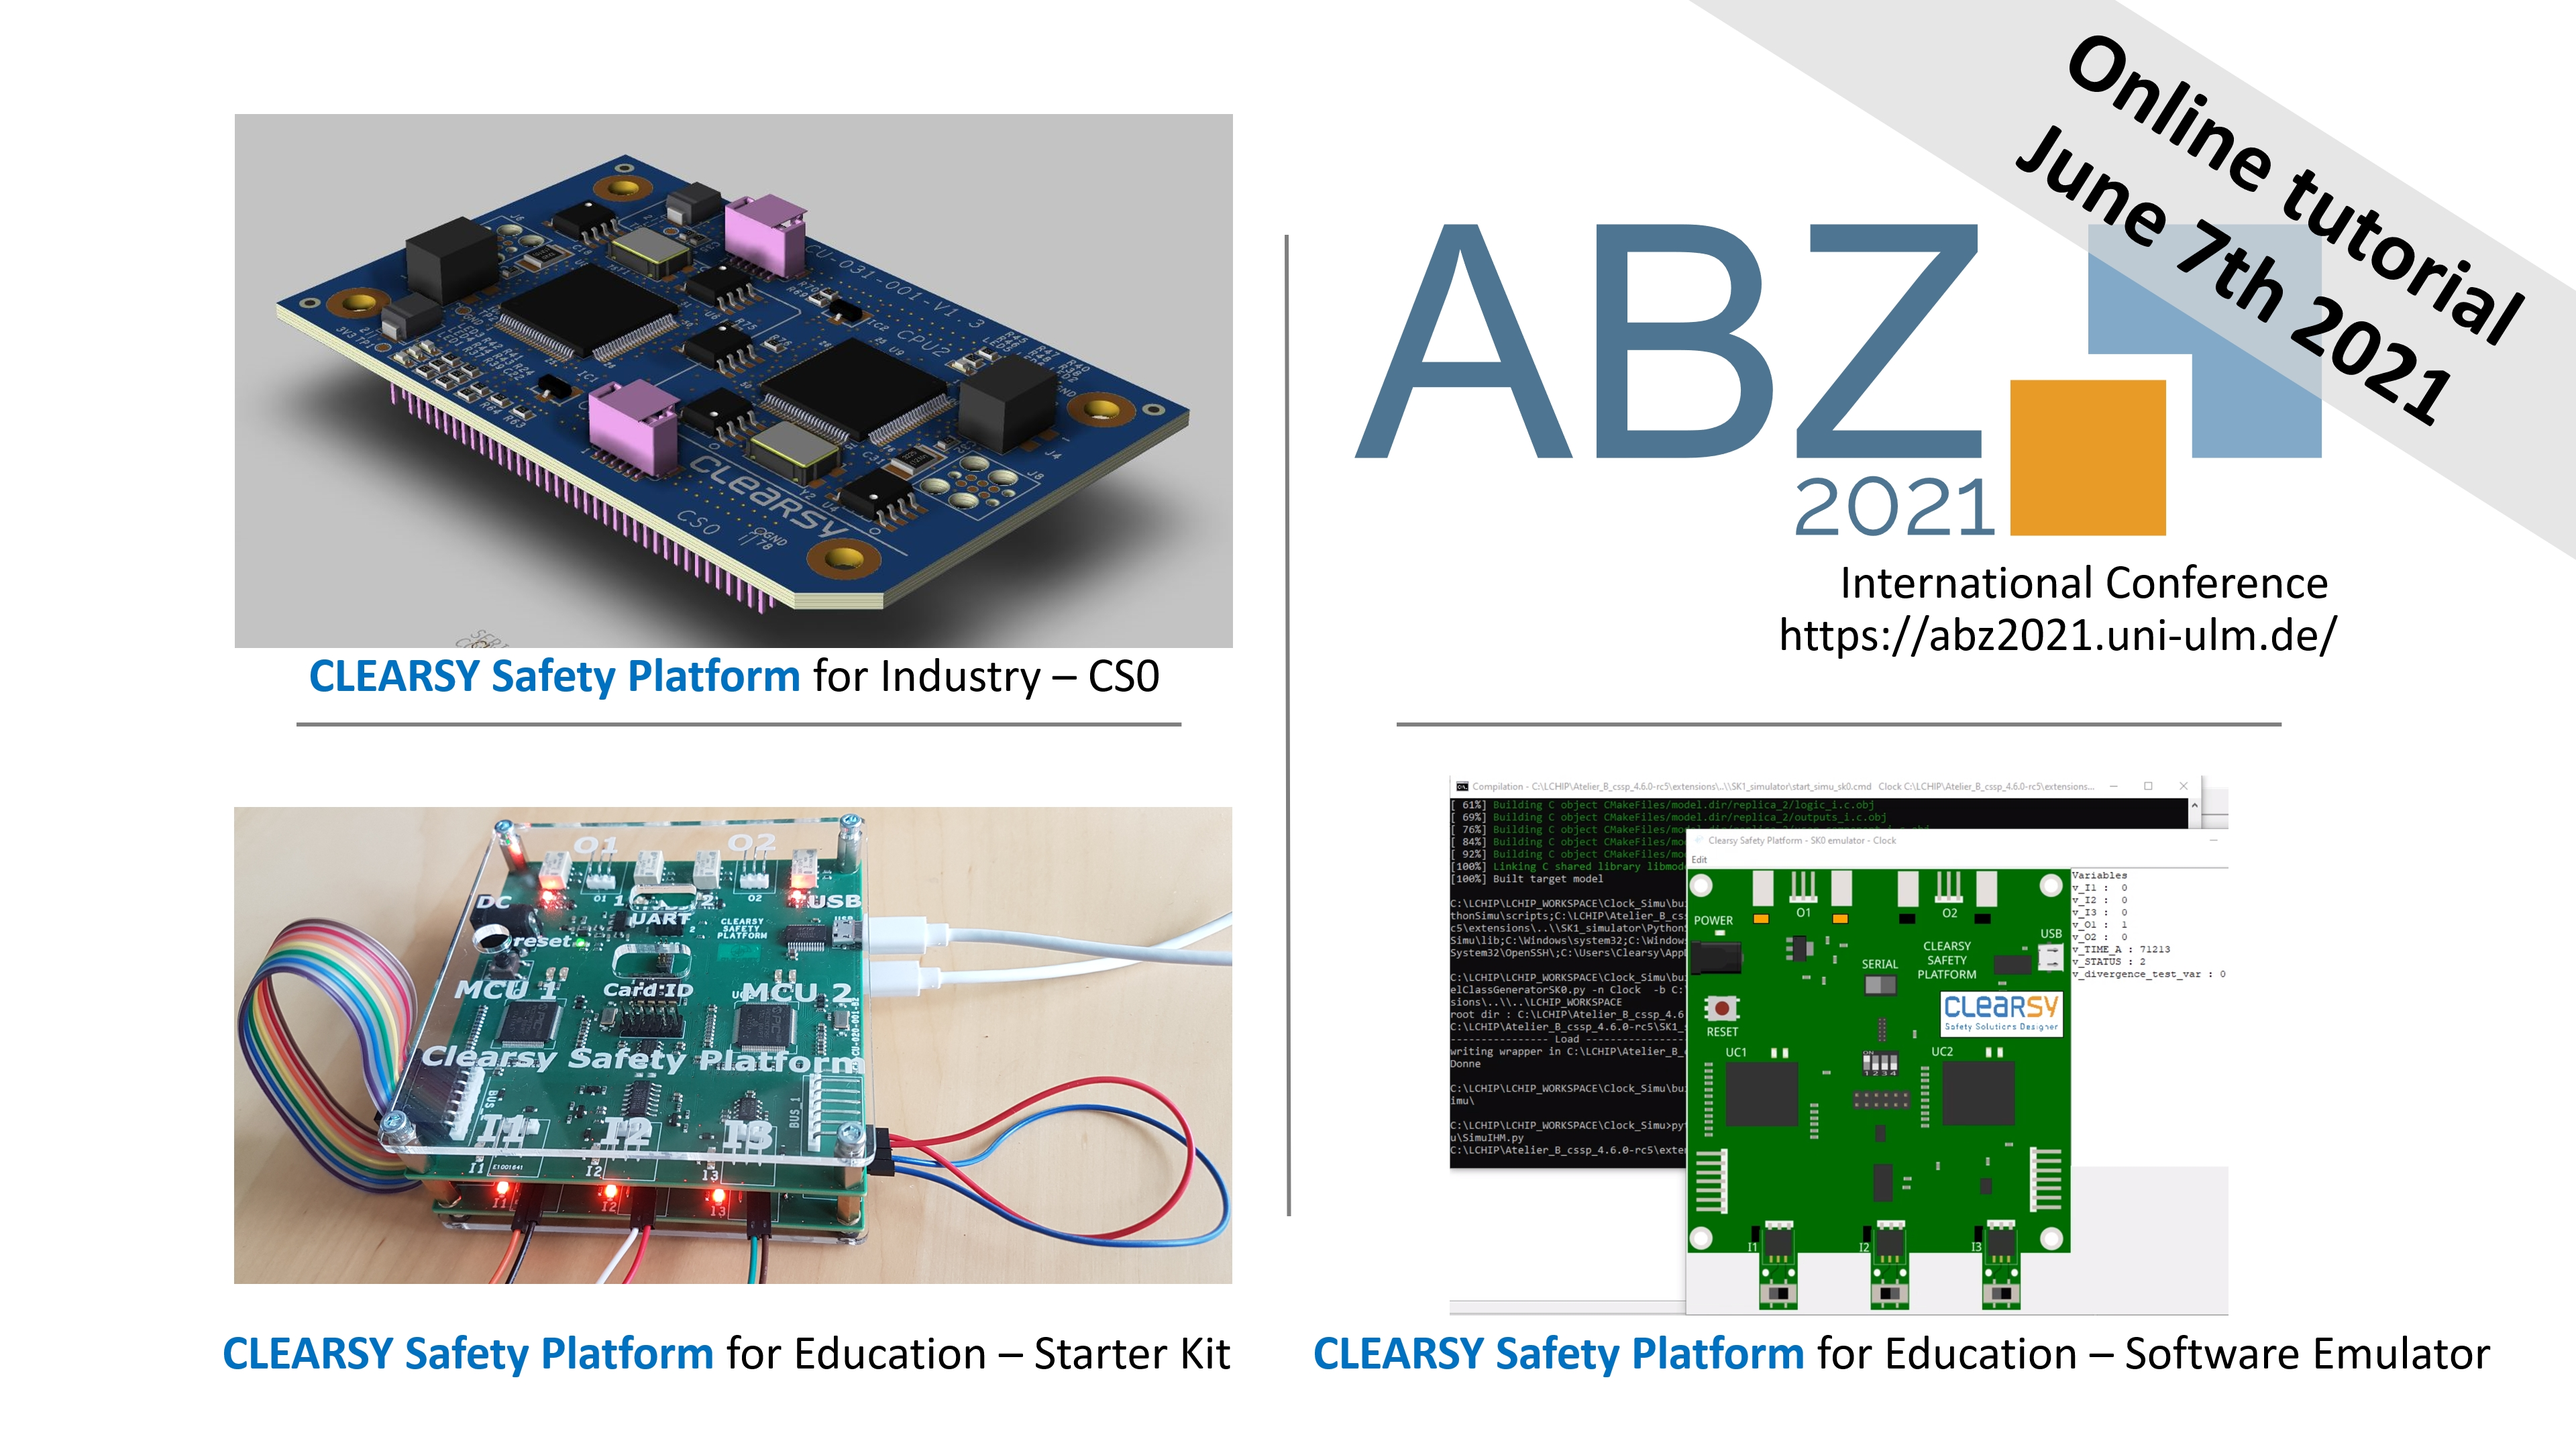
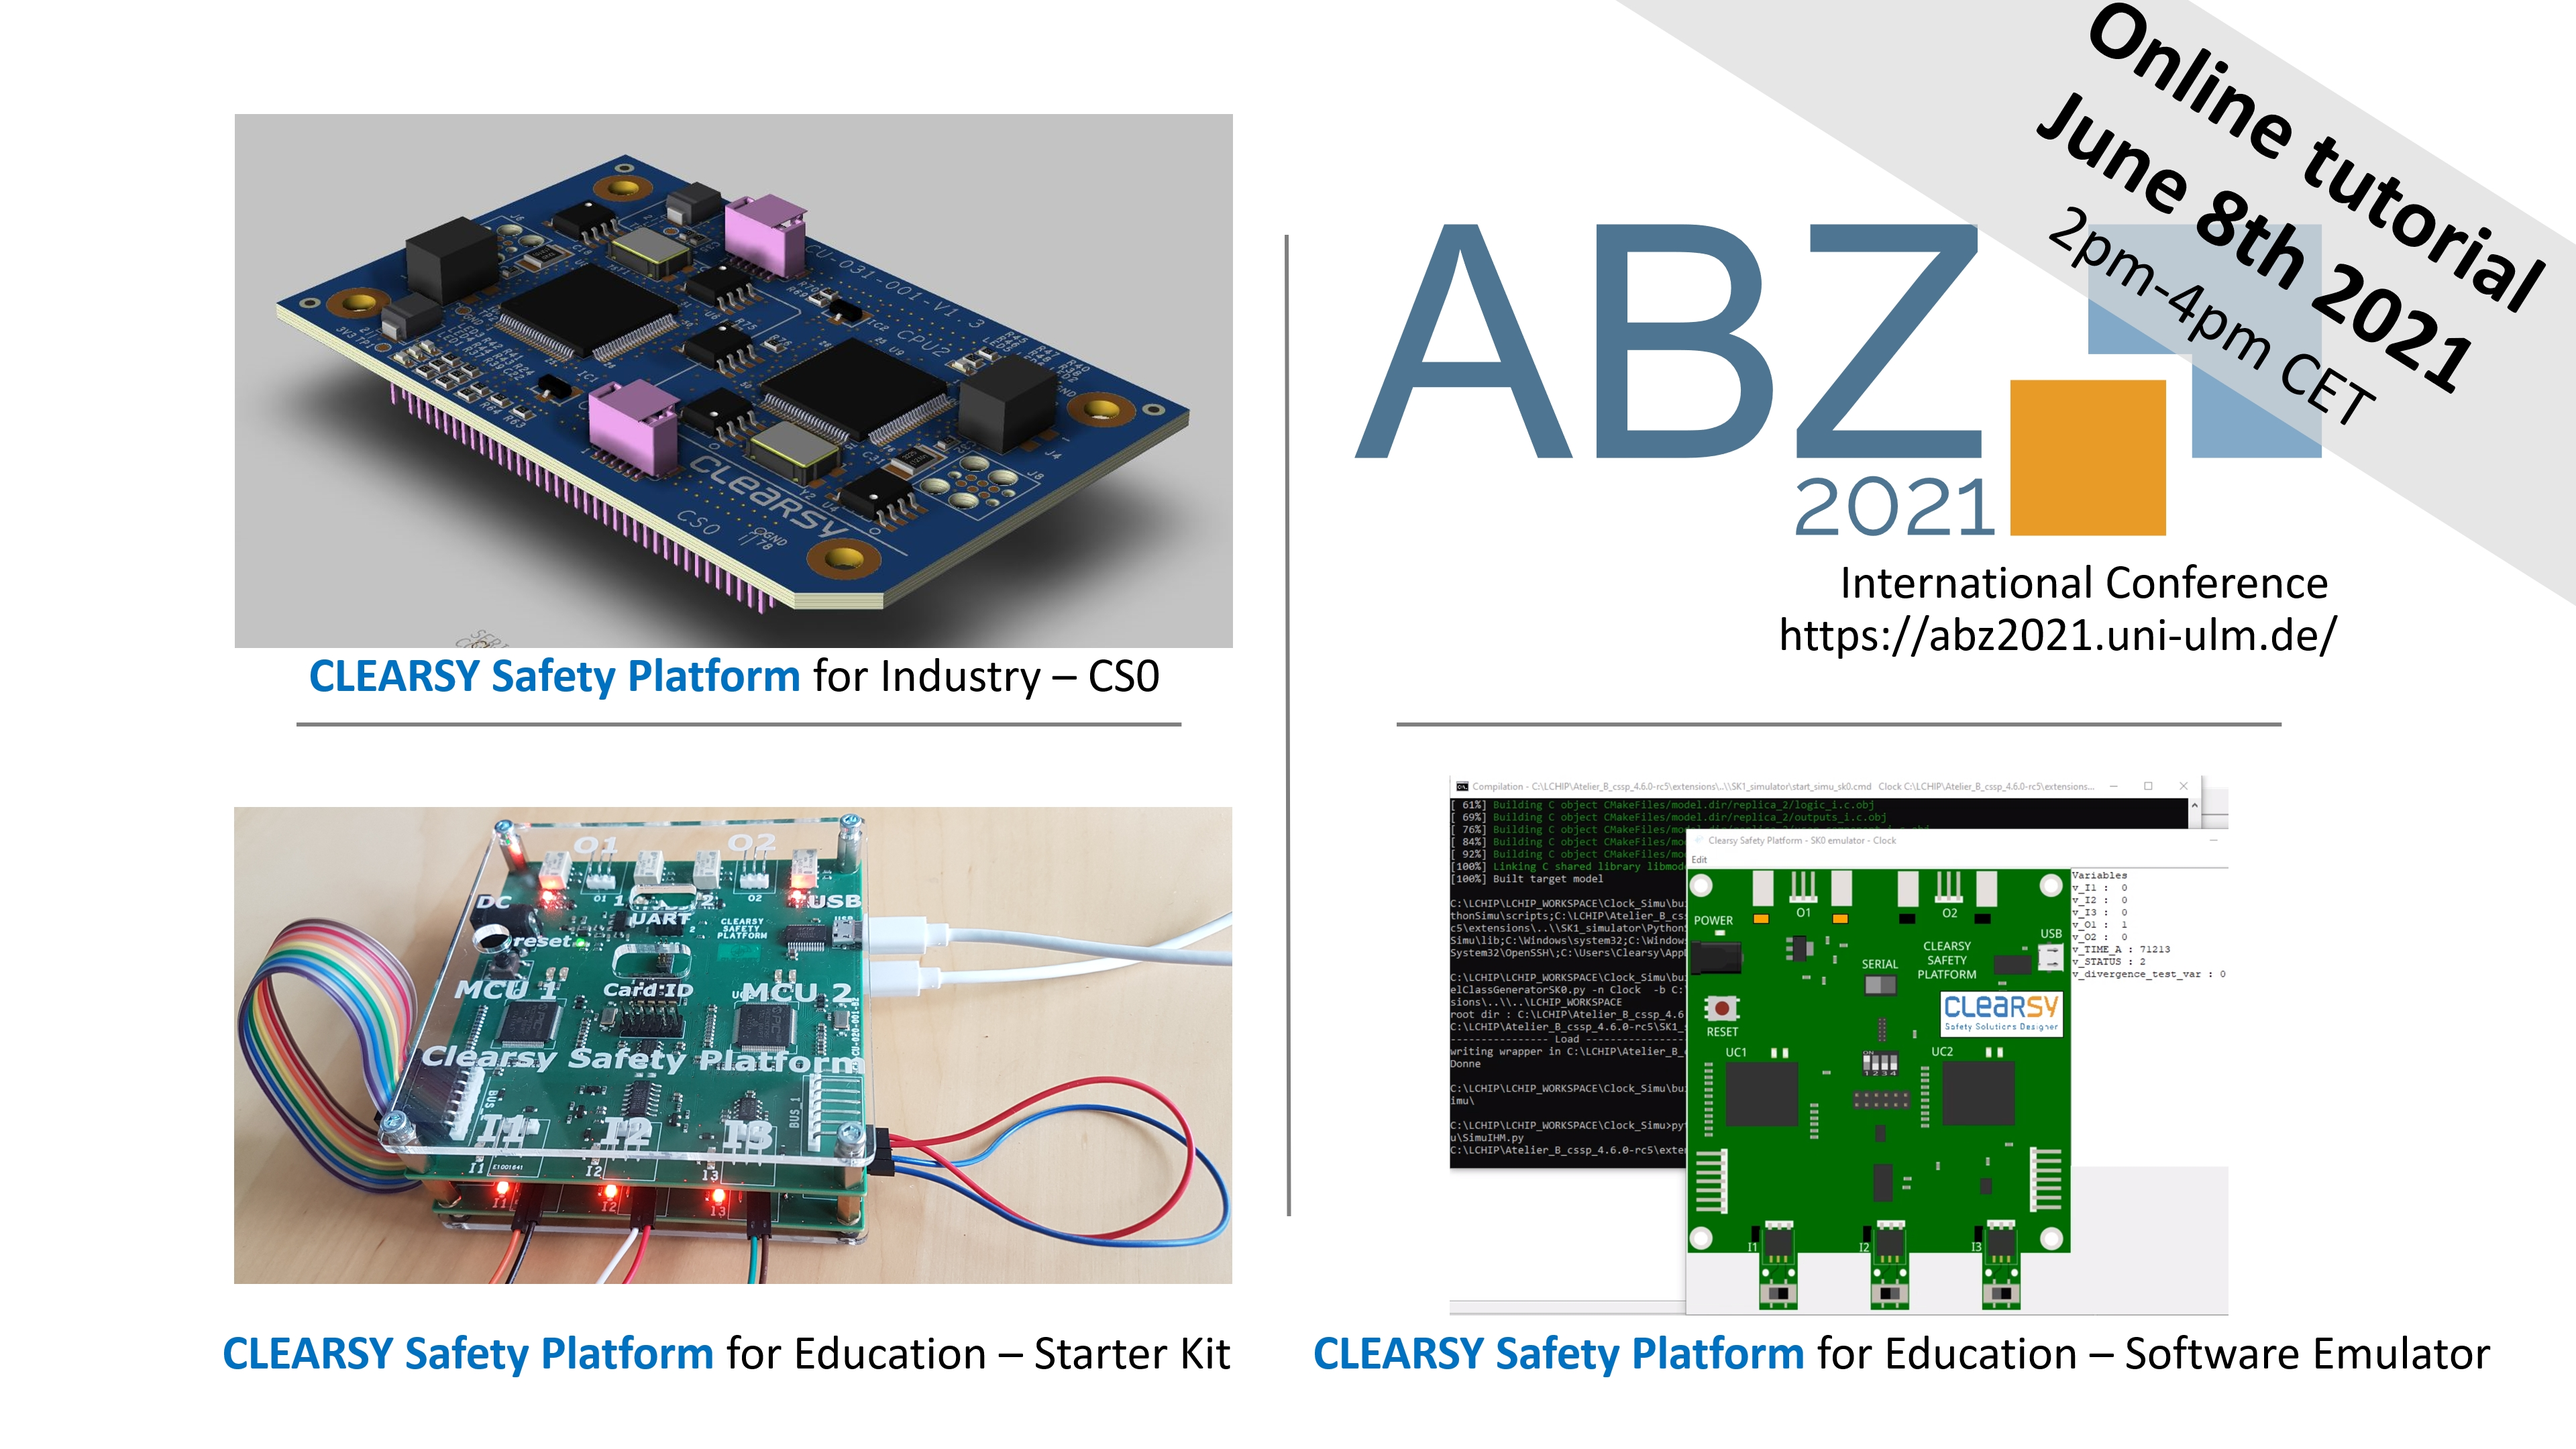
Add date and registration infos

Changed region(s): [[0.625, 0.0, 1.0, 0.4032]]

diff --git a/README.md b/README.md
@@ -10,6 +10,10 @@ The tutorial is given by Thierry LECOMTE. Thierry LECOMTE is R&D Director at CLE
 
 This tutorial completes the talk "Programming the CLEARSY Safety Platform" by providing more practical details on how to use it for education and research. This tutorial was first given during the RSSR 2017 conference (https://conferences.ncl.ac.uk/rssrail/tutorials/#tut2). The tutorial proposed for ABZ 2021 will contain more material based on feedback collected from teachers. It will also present the evolution from the SK0 board, its simulation-based software only version released in 2021 and its industry version, coming with a more open programming model.
 
+__Attending__  
+The tutorial will be run on June 8th 2021 at 2pm-4pm CET, within the framework of the ABZ 2021 international conference (https://abz2021.uni-ulm.de/).  
+It is freely accessible to anyone through the following registration link: https://my.demio.com/ref/XCAMy6daO1HAhmUl  
+
 __Outline__ (Duration : 2 hours)
 
 With this tutorial, you are going to learn on a concrete example how to use a formal method for "serious thing" - that is far more than model, predicate and proof. We will have a look at:
@@ -46,7 +50,7 @@ __Skills learned__
 - programming a logic controller with B
 
 __Contributers__
-- Thierry Lecomte: slides, edition, livre presentation
+- Thierry Lecomte: slides, edition, live presentation
 - Bruno Lavaud: CS0, C code, live presentation
 - Patrick Péronne: SK0, software simulator, level crossing example
 - Lilian Burdy: B models
